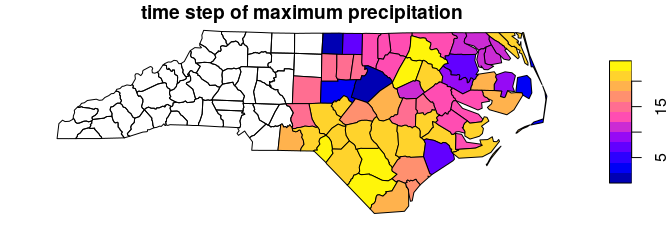
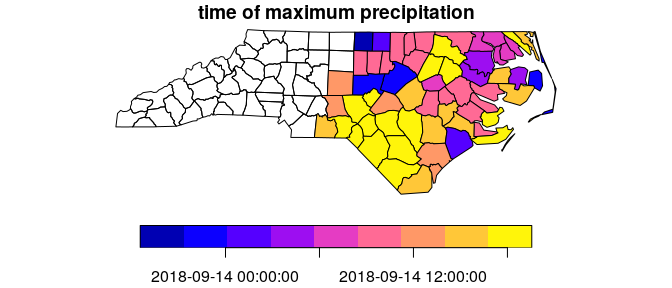
tidy

diff --git a/README.md b/README.md
@@ -133,12 +133,14 @@ plot(a, max.plot = 23, border = 'grey', lwd = .5)
 
 ![](images/unnamed-chunk-9-1.png)
 
-We can integrate over time, e.g. to find out when the maximum precipitation occurred (here reported as the index of the time step):
+We can integrate over time, e.g. to find out when the maximum precipitation occurred:
 
 ``` r
 index_max = function(x) ifelse(all(is.na(x)), NA, which.max(x))
 st_apply(a, "geometry", index_max) %>%
-  plot(main = "time step of maximum precipitation")
+  mutate(when = st_get_dimension_values(a, "time")[.$index_max]) %>%
+  select(when) %>%
+  plot(key.pos = 1, main = "time of maximum precipitation")
 ```
 
 ![](images/unnamed-chunk-10-1.png)
